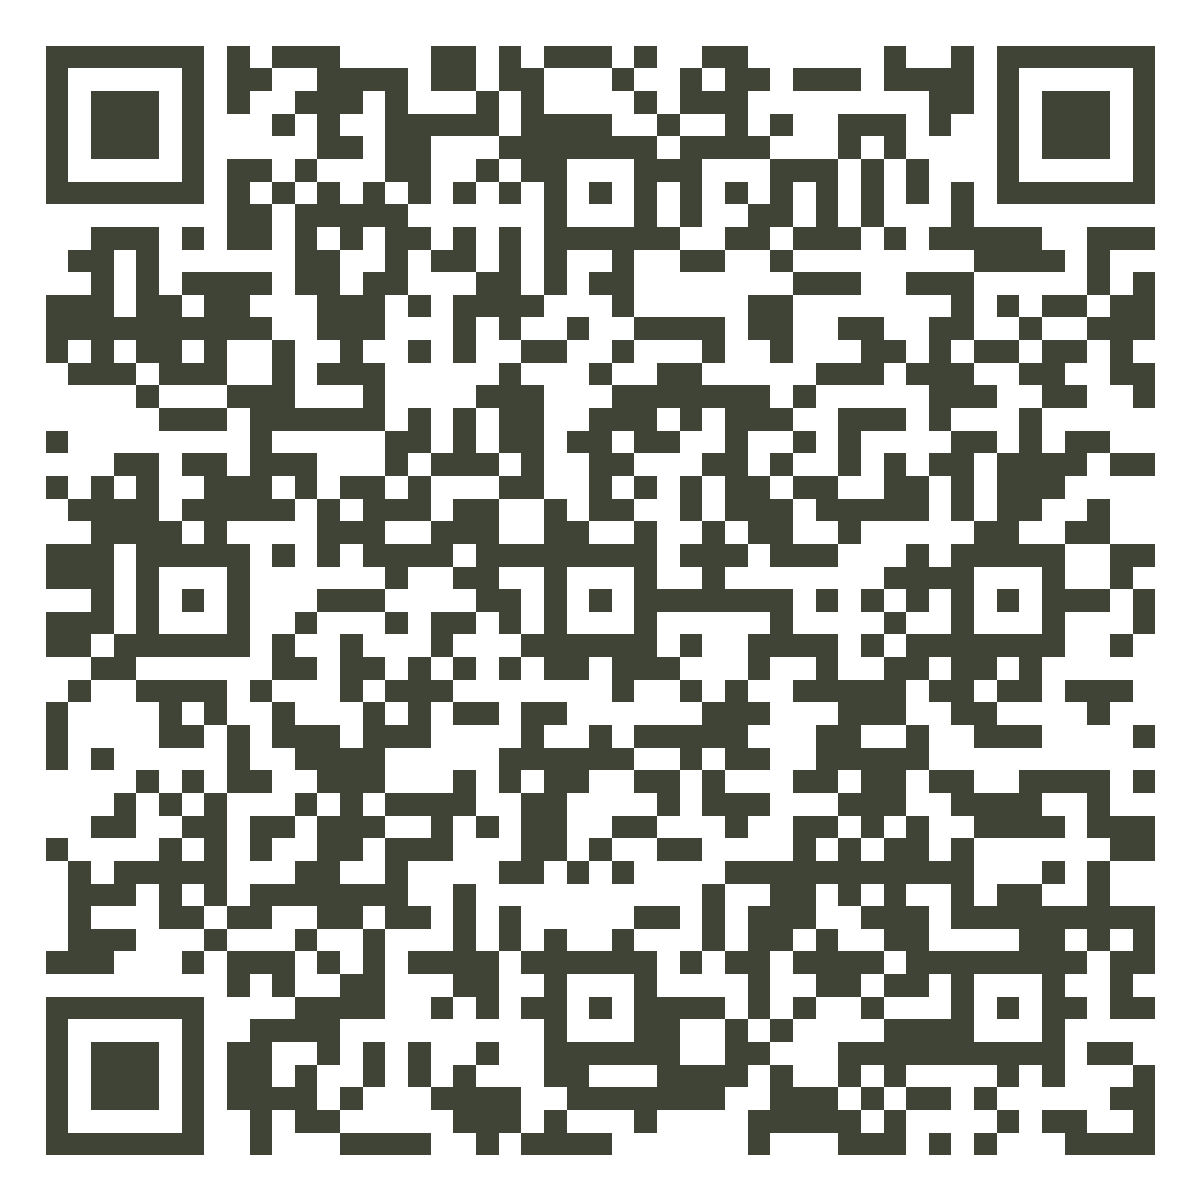
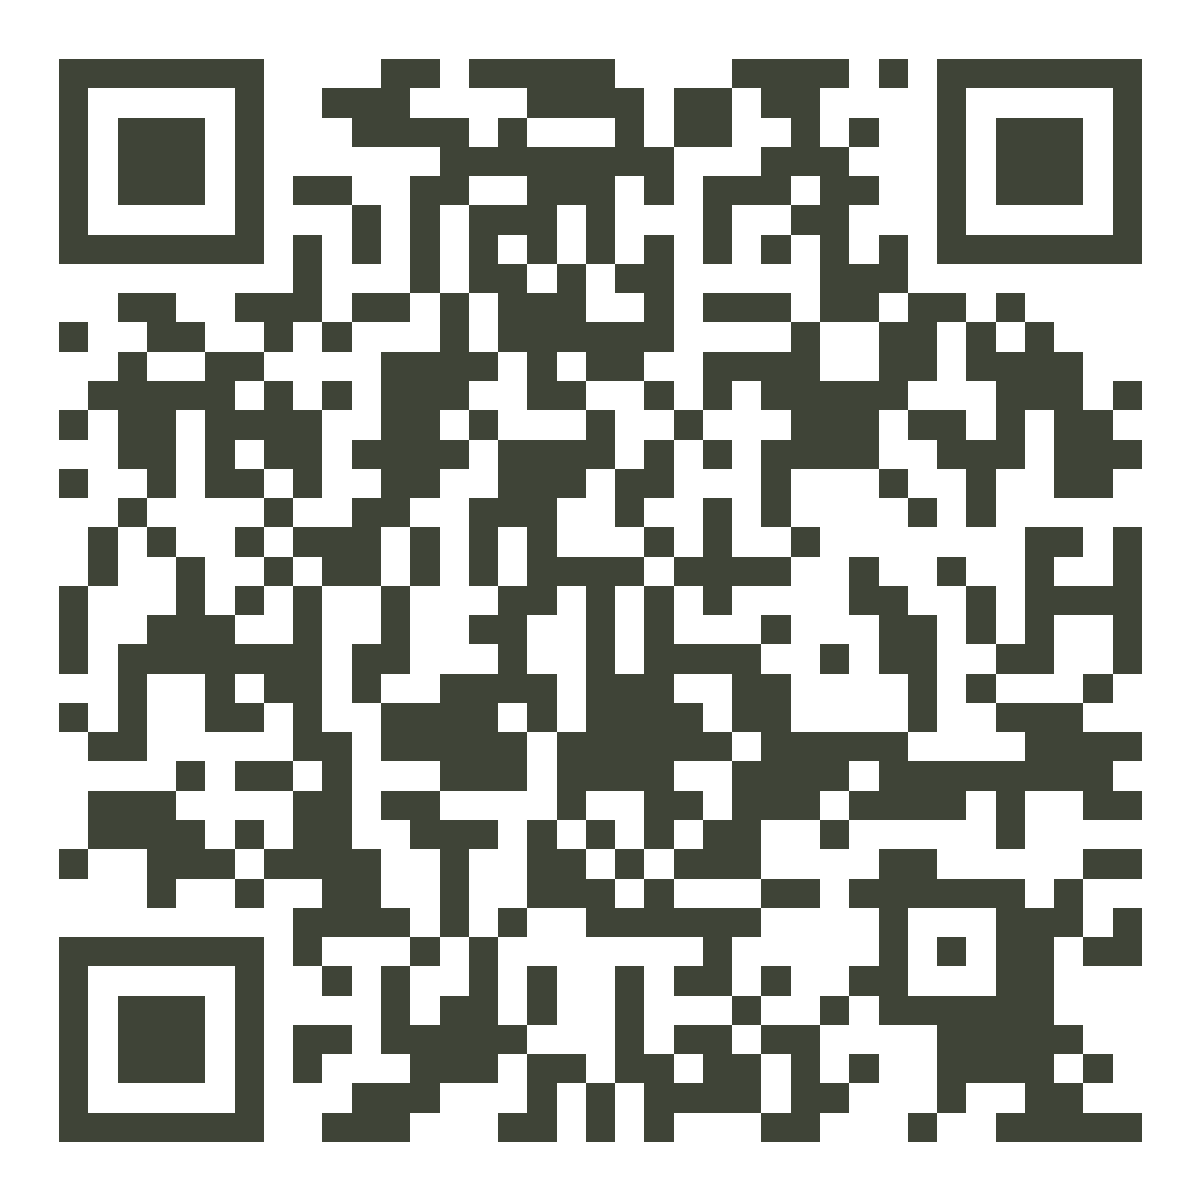
Serve from nannymckenzie.github.io root: base path /, updated URLs, QR, CORS

diff --git a/index.html b/index.html
@@ -9,8 +9,8 @@
   <meta property="og:title" content="McKenzie Ochoa Conner | Full-Time Nanny Care in Bellingham" />
   <meta property="og:description" content="Teacher-certified early childhood educator offering relationship-centered, play-based nanny care in Whatcom County." />
   <meta property="og:type" content="website" />
-  <meta property="og:url" content="https://mckenzie-conner.github.io/mckenzie-ochoa-conner/" />
-  <meta property="og:image" content="https://mckenzie-conner.github.io/mckenzie-ochoa-conner/og-image.png" />
+  <meta property="og:url" content="https://nannymckenzie.github.io/" />
+  <meta property="og:image" content="https://nannymckenzie.github.io/og-image.png" />
   <script type="module" src="/src/main.ts"></script>
 </head>
 <body id="top">

diff --git a/flyers/flyer-a.html b/flyers/flyer-a.html
@@ -42,7 +42,7 @@
           <div class="qr-cta">
             <strong>Scan to say hello</strong><br />
             Learn about my approach and tell me about your family.
-            <div class="qr-url">mckenzie-conner.github.io/mckenzie-ochoa-conner</div>
+            <div class="qr-url">nannymckenzie.github.io</div>
           </div>
           <img src="out/qr.svg" alt="QR code linking to McKenzie's website" />
         </div>

diff --git a/flyers/flyer-c.html b/flyers/flyer-c.html
@@ -41,7 +41,7 @@
         <div class="qr-block">
           <div class="qr-cta">
             <strong>Scan to say hello</strong>
-            <div class="qr-url">mckenzie-conner.github.io/mckenzie-ochoa-conner</div>
+            <div class="qr-url">nannymckenzie.github.io</div>
           </div>
           <img src="out/qr.svg" alt="QR code linking to McKenzie's website" />
         </div>

diff --git a/flyers/flyer-b.html b/flyers/flyer-b.html
@@ -66,7 +66,7 @@
         <div class="qr-cta">
           <strong>Scan to learn more and get in touch</strong><br />
           Tell me a little about your family and the care you are looking for.
-          <div class="qr-url">mckenzie-conner.github.io/mckenzie-ochoa-conner</div>
+          <div class="qr-url">nannymckenzie.github.io</div>
         </div>
       </div>
     </div>

diff --git a/supabase/functions/submit-lead/index.ts b/supabase/functions/submit-lead/index.ts
@@ -5,9 +5,7 @@
 import { renderAdminEmail, renderAdminEmailText } from './emails.ts'
 
 const ALLOWED_ORIGINS = [
-  'https://mckenzie-conner.github.io',
-  // Old origin kept until the repo transfer completes and Pages moves over.
-  'https://antonioochoa2804-bit.github.io',
+  'https://nannymckenzie.github.io',
   'http://localhost:5173',
 ]
 

diff --git a/vite.config.ts b/vite.config.ts
@@ -1,7 +1,7 @@
 import { defineConfig } from 'vite'
 
 export default defineConfig({
-  base: '/mckenzie-ochoa-conner/',
+  base: '/',
   build: {
     target: 'es2019',
   },

diff --git a/README.md b/README.md
@@ -4,7 +4,7 @@ Lead-capture funnel for McKenzie Ochoa Conner's full-time nanny care business in
 Bellingham / Whatcom County, WA. All free tier: Vite static site on GitHub Pages,
 Supabase (Postgres + edge function) backend, Resend email, QR-coded print flyers.
 
-- **Live site**: https://mckenzie-conner.github.io/mckenzie-ochoa-conner/
+- **Live site**: https://nannymckenzie.github.io/
 - **Backend**: Supabase project `mckenzie-ochoa-conner` (ref `oxamipkpkkyhfjrmvbgs`)
 - **Figma**: file `y9TlQQYHCMzbldA5Dy5Qq7` (design system + mobile/desktop frames)
 
